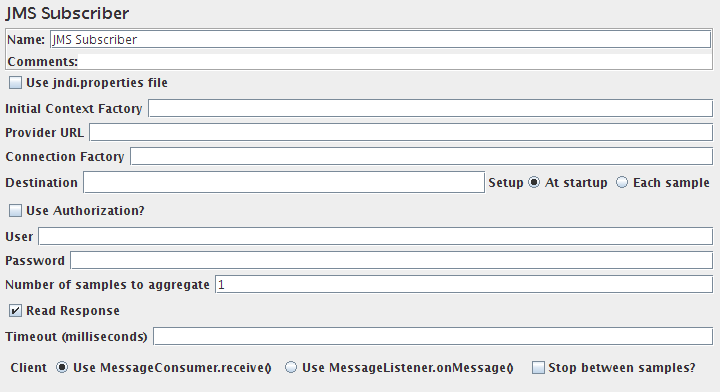
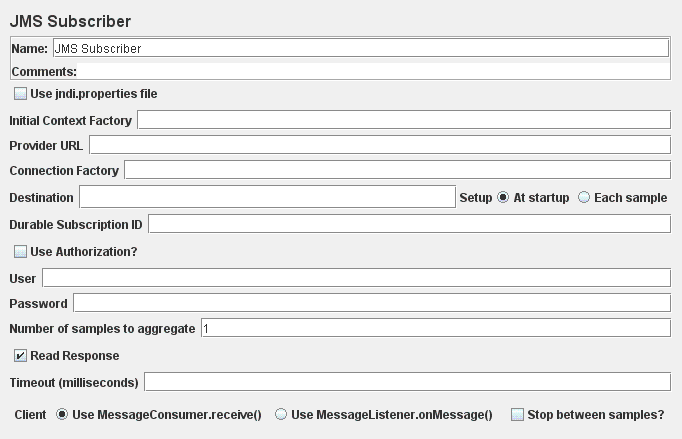
Bug 50666 - JMSSubscriber: support for durable subscriptions
git-svn-id: https://svn.apache.org/repos/asf/jakarta/jmeter/trunk@1082871 13f79535-47bb-0310-9956-ffa450edef68

Former-commit-id: 9f9dfd194f8469fe992028c058029eabce1f5022

Changed region(s): [[0.0, 0.0, 1.0, 0.8878], [0.0, 0.9184, 0.9853, 0.9796]]

diff --git a/src/protocol/jms/org/apache/jmeter/protocol/jms/client/ReceiveSubscriber.java b/src/protocol/jms/org/apache/jmeter/protocol/jms/client/ReceiveSubscriber.java
@@ -29,6 +29,7 @@ import javax.jms.Message;
 import javax.jms.MessageConsumer;
 import javax.jms.MessageListener;
 import javax.jms.Session;
+import javax.jms.Topic;
 import javax.naming.Context;
 import javax.naming.NamingException;
 
@@ -81,14 +82,14 @@ public class ReceiveSubscriber implements Closeable, MessageListener {
      */
     public ReceiveSubscriber(boolean useProps, 
             String initialContextFactory, String providerUrl, String connfactory, String destinationName,
-            boolean useAuth, 
+            String durableSubscriptionId, boolean useAuth, 
             String securityPrincipal, String securityCredentials) throws NamingException, JMSException {
         Context ctx = InitialContextFactory.getContext(useProps, 
                 initialContextFactory, providerUrl, useAuth, securityPrincipal, securityCredentials);
         CONN = Utils.getConnection(ctx, connfactory);
         SESSION = CONN.createSession(false, Session.AUTO_ACKNOWLEDGE);
         Destination dest = Utils.lookupDestination(ctx, destinationName);
-        SUBSCRIBER = SESSION.createConsumer(dest);
+       	SUBSCRIBER = createSubscriber(SESSION, dest, durableSubscriptionId);
         queue = null;
         log.debug("<init> complete");
     }
@@ -114,14 +115,14 @@ public class ReceiveSubscriber implements Closeable, MessageListener {
      */
     public ReceiveSubscriber(int queueSize, boolean useProps, 
             String initialContextFactory, String providerUrl, String connfactory, String destinationName,
-            boolean useAuth, 
+            String durableSubscriptionId, boolean useAuth, 
             String securityPrincipal, String securityCredentials) throws NamingException, JMSException {
         Context ctx = InitialContextFactory.getContext(useProps, 
                 initialContextFactory, providerUrl, useAuth, securityPrincipal, securityCredentials);
         CONN = Utils.getConnection(ctx, connfactory);
         SESSION = CONN.createSession(false, Session.AUTO_ACKNOWLEDGE);
         Destination dest = Utils.lookupDestination(ctx, destinationName);
-        SUBSCRIBER = SESSION.createConsumer(dest);
+        SUBSCRIBER = createSubscriber(SESSION, dest, durableSubscriptionId);
         if (queueSize <=0) {
             queue = new LinkedBlockingQueue<Message>();
         } else {
@@ -129,6 +130,27 @@ public class ReceiveSubscriber implements Closeable, MessageListener {
         }
         SUBSCRIBER.setMessageListener(this);
         log.debug("<init> complete");
+    }
+    
+    /**
+     * Return a simple MessageConsumer or a TopicSubscriber (as a durable subscription)
+     * @param session
+     * 				JMS session	
+     * @param destination
+     * 				JMS destination, can be either topic or queue
+     * @param durableSubscriptionId 
+     * 				If neither empty nor null, this means that a durable 
+     * 				subscription will be used
+     * @return
+     * @throws JMSException
+     */
+    private MessageConsumer createSubscriber(Session session, 
+    		Destination destination, String durableSubscriptionId) throws JMSException {
+    	if (isEmpty(durableSubscriptionId)) {
+        	return  session.createConsumer(destination);
+        } else {
+        	return session.createDurableSubscriber((Topic) destination, durableSubscriptionId); 
+        }	
     }
 
     /**
@@ -203,5 +225,17 @@ public class ReceiveSubscriber implements Closeable, MessageListener {
         if (!queue.offer(message)){
             log.warn("Could not add message to queue");
         }
+    }
+    
+    
+    /**
+     * Checks whether string is empty
+     * 
+     * @param s1
+     * @return True if input is null, an empty string, 
+     * 				or a white space-only string
+     */
+    private boolean isEmpty(String s1) {
+    	return (s1 == null || s1.trim().equals(""));
     }
 }

diff --git a/src/protocol/jms/org/apache/jmeter/protocol/jms/sampler/SubscriberSampler.java b/src/protocol/jms/org/apache/jmeter/protocol/jms/sampler/SubscriberSampler.java
@@ -36,7 +36,7 @@ import org.apache.jorphan.logging.LoggingManager;
 import org.apache.log.Logger;
 
 /**
- * This class implements the JMS Subcriber sampler.
+ * This class implements the JMS Subscriber sampler.
  * It supports both receive and onMessage strategies via the ReceiveSubscriber class.
  * 
  */
@@ -55,7 +55,7 @@ public class SubscriberSampler extends BaseJMSSampler implements Interruptible, 
     private static final Logger log = LoggingManager.getLoggerForClass();
 
     // Default wait (ms) for a message if timeouts are not enabled
-    // This is the maximimum time the sampler can be blocked.
+    // This is the maximum time the sampler can be blocked.
     private static final long DEFAULT_WAIT = 500L;
 
     // No need to synch/ - only used by sampler and ClientPool (which does its own synch)
@@ -64,10 +64,10 @@ public class SubscriberSampler extends BaseJMSSampler implements Interruptible, 
     private transient volatile boolean interrupted = false;
 
     private transient long timeout;
-
+    
     private transient boolean useReceive;
 
-    // This will be null iff initialisation succeeeds.
+    // This will be null if initialization succeeds.
     private transient Exception exceptionDuringInit;
 
     // If true, start/stop subscriber for each sample
@@ -77,6 +77,8 @@ public class SubscriberSampler extends BaseJMSSampler implements Interruptible, 
     private static final String CLIENT_CHOICE = "jms.client_choice"; // $NON-NLS-1$
     private static final String TIMEOUT = "jms.timeout"; // $NON-NLS-1$
     private static final String TIMEOUT_DEFAULT = "";
+    private static final String DURABLE_SUBSCRIPTION_ID = "jms.durableSubscriptionId"; // $NON-NLS-1$
+    private static final String DURABLE_SUBSCRIPTION_ID_DEFAULT = "";
     private static final String STOP_BETWEEN = "jms.stop_between_samples"; // $NON-NLS-1$
     
     private transient boolean START_ON_SAMPLE = false;
@@ -93,7 +95,7 @@ public class SubscriberSampler extends BaseJMSSampler implements Interruptible, 
      */
     private void initListenerClient() throws JMSException, NamingException {
         SUBSCRIBER = new ReceiveSubscriber(0, getUseJNDIPropertiesAsBoolean(), getJNDIInitialContextFactory(),
-                    getProviderUrl(), getConnectionFactory(), getDestination(), 
+                    getProviderUrl(), getConnectionFactory(), getDestination(), getDurableSubscriptionId(),
                     isUseAuth(), getUsername(), getPassword());
         log.debug("SubscriberSampler.initListenerClient called");
     }
@@ -106,7 +108,7 @@ public class SubscriberSampler extends BaseJMSSampler implements Interruptible, 
     private void initReceiveClient() throws NamingException, JMSException {
         SUBSCRIBER = new ReceiveSubscriber(getUseJNDIPropertiesAsBoolean(),
                 getJNDIInitialContextFactory(), getProviderUrl(), getConnectionFactory(), getDestination(),
-                isUseAuth(), getUsername(), getPassword());
+                getDurableSubscriptionId(), isUseAuth(), getUsername(), getPassword());
         log.debug("SubscriberSampler.initReceiveClient called");
     }
 
@@ -352,6 +354,14 @@ public class SubscriberSampler extends BaseJMSSampler implements Interruptible, 
 
     public void setTimeout(String timeout){
         setProperty(TIMEOUT, timeout, TIMEOUT_DEFAULT);        
+    }
+    
+    public String getDurableSubscriptionId(){
+        return getPropertyAsString(DURABLE_SUBSCRIPTION_ID);
+    }
+
+    public void setDurableSubscriptionId(String durableSubscriptionId){
+        setProperty(DURABLE_SUBSCRIPTION_ID, durableSubscriptionId, DURABLE_SUBSCRIPTION_ID_DEFAULT);        
     }
 
     // This was the old value that was checked for

diff --git a/src/protocol/jms/org/apache/jmeter/protocol/jms/control/gui/JMSSubscriberGui.java b/src/protocol/jms/org/apache/jmeter/protocol/jms/control/gui/JMSSubscriberGui.java
@@ -58,6 +58,9 @@ public class JMSSubscriberGui extends AbstractSamplerGui implements ChangeListen
 
     private final JLabeledTextField jmsDestination =
         new JLabeledTextField(JMeterUtils.getResString("jms_topic")); // $NON-NLS-1$
+    
+    private final JLabeledTextField jmsDurableSubscriptionId =
+        new JLabeledTextField(JMeterUtils.getResString("jms_durable_subscription_id")); // $NON-NLS-1$
 
     private final JLabeledTextField jmsUser =
         new JLabeledTextField(JMeterUtils.getResString("jms_user")); // $NON-NLS-1$
@@ -132,6 +135,7 @@ public class JMSSubscriberGui extends AbstractSamplerGui implements ChangeListen
         sampler.setProviderUrl(urlField.getText());
         sampler.setConnectionFactory(jndiConnFac.getText());
         sampler.setDestination(jmsDestination.getText());
+        sampler.setDurableSubscriptionId(jmsDurableSubscriptionId.getText());
         sampler.setUsername(jmsUser.getText());
         sampler.setPassword(jmsPwd.getText());
         sampler.setUseAuth(useAuth.isSelected());
@@ -164,6 +168,7 @@ public class JMSSubscriberGui extends AbstractSamplerGui implements ChangeListen
         mainPanel.add(urlField);
         mainPanel.add(jndiConnFac);
         mainPanel.add(createDestinationPane());
+        mainPanel.add(jmsDurableSubscriptionId);
         mainPanel.add(useAuth);
         mainPanel.add(jmsUser);
         mainPanel.add(jmsPwd);
@@ -193,6 +198,7 @@ public class JMSSubscriberGui extends AbstractSamplerGui implements ChangeListen
         urlField.setText(sampler.getProviderUrl());
         jndiConnFac.setText(sampler.getConnectionFactory());
         jmsDestination.setText(sampler.getDestination());
+        jmsDurableSubscriptionId.setText(sampler.getDurableSubscriptionId());
         jmsUser.setText(sampler.getUsername());
         jmsPwd.setText(sampler.getPassword());
         iterations.setText(sampler.getIterations());
@@ -212,6 +218,7 @@ public class JMSSubscriberGui extends AbstractSamplerGui implements ChangeListen
         urlField.setText(""); // $NON-NLS-1$
         jndiConnFac.setText(""); // $NON-NLS-1$
         jmsDestination.setText(""); // $NON-NLS-1$
+        jmsDurableSubscriptionId.setText(""); // $NON-NLS-1$
         jmsUser.setText(""); // $NON-NLS-1$
         jmsPwd.setText(""); // $NON-NLS-1$
         iterations.setText("1"); // $NON-NLS-1$
